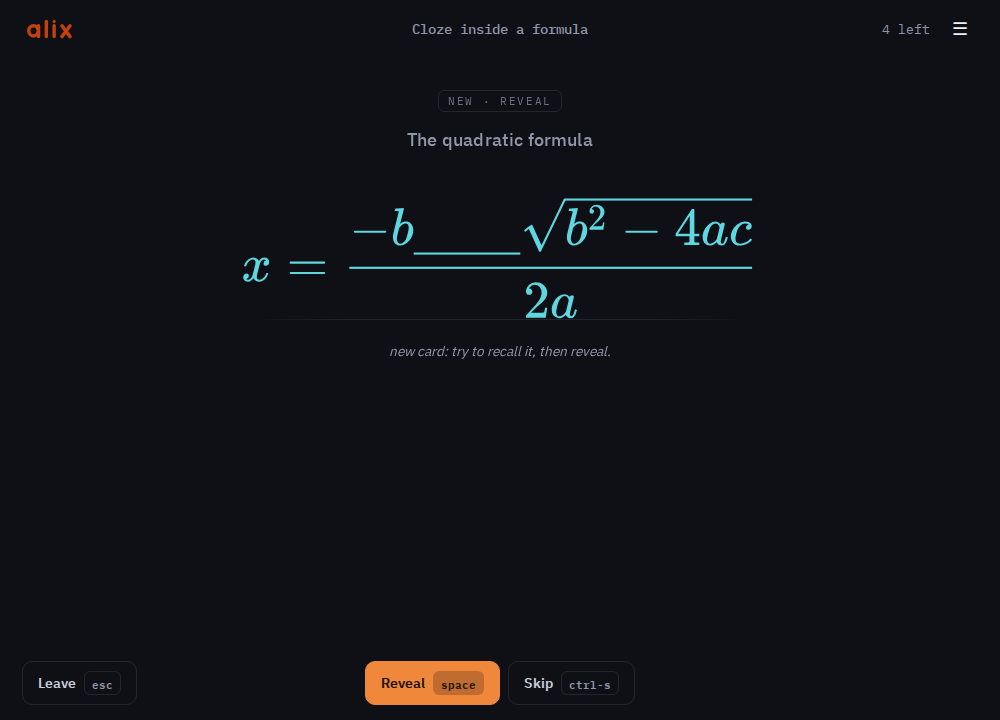
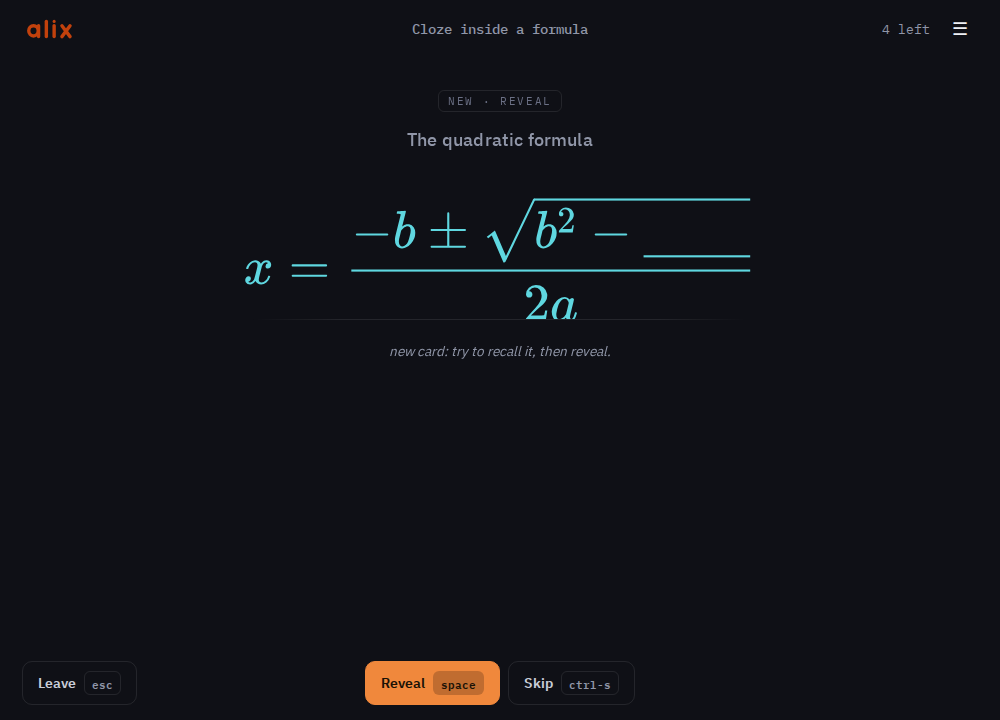
fix(examples): ink in the draw box, and blanks a learner can type
The draw example photographed an empty canvas, which reads as an empty
box rather than a surface you draw on. The capture now sketches the
answer, keyed by the question so that a scribble never appears under
"draw the hiragana for ka"; a card the table has no strokes for fails
rather than shipping a blank canvas again.

Separately, a cloze hole's content IS the expected answer, so
`\blank{\pm}` asks the learner to type the string `\pm`: a spelling test
for LaTeX, not for the quadratic formula. Both math examples now blank a
piece that can be typed, and the deck says why, since nothing detects
this and the author only finds out at Reconstruct.

Changed region(s): [[0.248, 0.275, 0.744, 0.4583]]

diff --git a/docs/examples/syntax/math-cloze.md b/docs/examples/syntax/math-cloze.md
@@ -7,13 +7,15 @@ id: "deck-12x3e6yg9qkhxfjwgg9q4gwp7x"
 
 `\blank{...}` works inside `$...$` and `$$...$$`. The hidden span is a
 piece of the formula, so what is asked is the step, not the sentence
-around it.
+around it. Hide something that can be typed: the hole's content is the
+answer, and a control sequence like `\pm` would make the card a spelling
+test for LaTeX.
 
 ## The quadratic formula
-$$x = \frac{-b \blank{\pm} \sqrt{b^2 - 4ac}}{2a}$$
-> One blank, one sub-card. Blanking the whole numerator would ask for
-> recall of the formula; blanking the sign asks for the part that is
-> actually forgotten.
+$$x = \frac{-b \pm \sqrt{b^2 - \blank{4ac}}}{2a}$$
+> One blank, one sub-card. Blank what the learner would type: the hole's
+> content is the expected answer, so `\blank{\pm}` would be asking for
+> the string `\pm` rather than for any understanding.
 <!-- id: card-798bv2regxndcd0the8my59mb4 -->
 
 ## Euler's identity

diff --git a/CHANGELOG.md b/CHANGELOG.md
@@ -135,8 +135,10 @@ adheres to [Semantic Versioning](https://semver.org/spec/v2.0.0.html).
   choice example is photographed answered, because the cursor rests on
   option 1 and a picture of that reads as if option 1 were the answer:
   the table example appeared to pair "to advocate" with "widerlegen".
-  Every image also waited on a fixed pause that expired before the header
-  logo finished forming, so all of them were captured mid-animation.
+  The draw example is sketched on, since an empty canvas photographs as
+  an empty box. Every image also waited on a fixed pause that expired
+  before the header logo finished forming, so all of them were captured
+  mid-animation.
 
 - The summary's "Next due in N min" counts down while the page stays open
   instead of freezing at the value it had when the sitting ended.

diff --git a/docs/examples/syntax/math-rendering.md b/docs/examples/syntax/math-rendering.md
@@ -57,7 +57,7 @@ $$x^2 + y^2 = 1$$
 <!-- id: card-2kecxz9fwvwb4zce4q1xpn80z5 -->
 
 ## Complete the inline quadratic formula.
-$x = \frac{-b \blank{\pm} \sqrt{b^2 - \blank{4ac}}}{2a}$
+$x = \frac{-b \pm \sqrt{\blank{b^2} - \blank{4ac}}}{2a}$
 <!-- id: card-3065zgmvgh9ne54yvshff7egsk -->
 
 ## Complete the displayed difference-of-squares identity.
